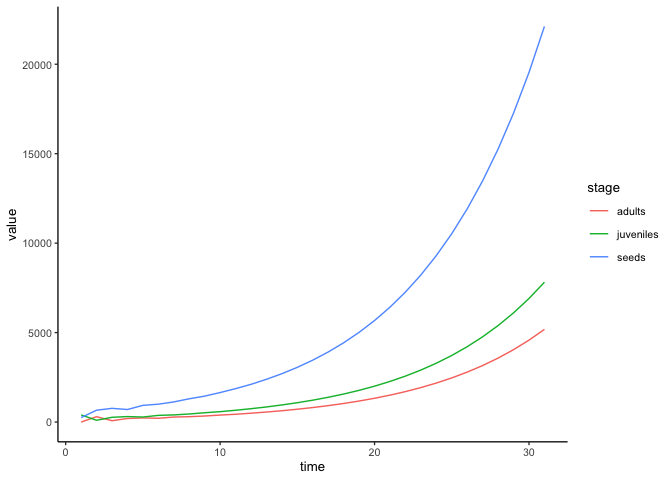
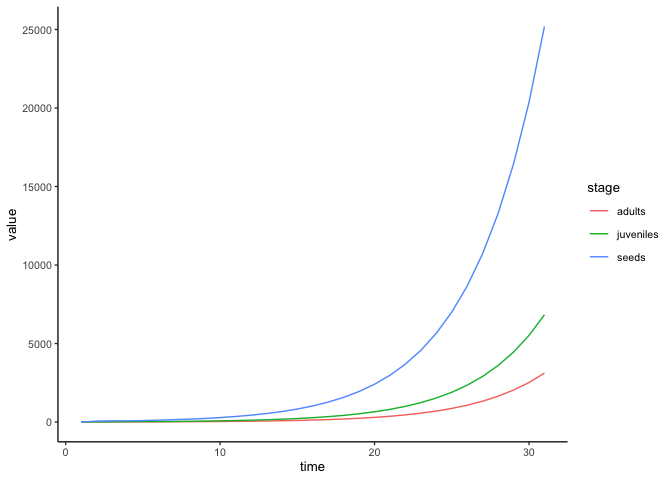
better matrix!

diff --git a/code/notebooks/2024-09-09_constructing-a-model.md b/code/notebooks/2024-09-09_constructing-a-model.md
@@ -90,9 +90,9 @@ step - useful for plant and animals with stage-dependent demography.
 ``` r
 t_mat <- matrix(     
   c(
-    0.25, 1.5, 1.5,
-    0.4, 0, 0,
-    0, 0.75, 0
+    0, 0, 10,
+    0.2, 0.5, 0,
+    0, 0.2, 0.8
   ),
   nrow = 3, ncol = 3, byrow = T,
   dimnames = (list(c("seed", "juvenile", "adult"),
@@ -103,19 +103,25 @@ t_mat
 ```
 
              [,1] [,2] [,3]
-    seed     0.25 1.50  1.5
-    juvenile 0.40 0.00  0.0
-    adult    0.00 0.75  0.0
+    seed      0.0  0.0 10.0
+    juvenile  0.2  0.5  0.0
+    adult     0.0  0.2  0.8
 
-Starting with 1,000 seeds
+|  | seed | juvenile | adult |
+|:---|:---|:---|:---|
+| **seed** | seed remaining seed | from juvenile to seed | from adult to seed |
+| **juvenile** | from seed to juvenile | juvenile remaining juvenile | from adult to juvenile |
+| **adult** | from seed to adult | from juvenile to adult | adult remaining adult |
+
+Starting with 30 juvenile plants
 
 ``` r
-abund_init <- c(1000, 0, 0)
+abund_init <- c(0, 30, 0)
 
 abund_init
 ```
 
-    [1] 1000    0    0
+    [1]  0 30  0
 
 ``` r
 yr_1 <- t_mat %*% abund_init 
@@ -124,9 +130,9 @@ yr_1
 ```
 
              [,1]
-    seed      250
-    juvenile  400
-    adult       0
+    seed        0
+    juvenile   15
+    adult       6
 
 ``` r
 n_years <- 30
@@ -144,26 +150,26 @@ for(t in 2:(n_years + 1)){
 all_years
 ```
 
-         [,1]  [,2]    [,3]     [,4]     [,5]     [,6]      [,7]      [,8]
-    [1,]  250 662.5 765.625 701.4062 932.8516 998.5879 1124.9907 1300.1836
-    [2,]  400 100.0 265.000 306.2500 280.5625 373.1406  399.4352  449.9963
-    [3,]    0 300.0  75.000 198.7500 229.6875 210.4219  279.8555  299.5764
-              [,9]     [,10]     [,11]     [,12]     [,13]     [,14]     [,15]
-    [1,] 1449.4049 1648.7072 1866.9024 2108.1821 2389.1052 2702.2916 3057.7180
-    [2,]  520.0734  579.7620  659.4829  746.7609  843.2728  955.6421 1080.9167
-    [3,]  337.4972  390.0551  434.8215  494.6122  560.0707  632.4546  716.7316
-             [,16]     [,17]    [,18]    [,19]    [,20]    [,21]    [,22]    [,23]
-    [1,] 3460.9018 3915.8875 4431.486 5014.810 5674.743 6421.740 7266.946 8223.415
-    [2,] 1223.0872 1384.3607 1566.355 1772.594 2005.924 2269.897 2568.696 2906.778
-    [3,]  810.6875  917.3154 1038.271 1174.766 1329.446 1504.443 1702.423 1926.522
-            [,24]     [,25]     [,26]     [,27]     [,28]     [,29]     [,30]
-    [1,] 9305.804 10530.626 11916.676 13485.156 15260.076 17268.617 19541.520
-    [2,] 3289.366  3722.322  4212.250  4766.670  5394.063  6104.031  6907.447
-    [3,] 2180.084  2467.025  2791.741  3159.188  3575.003  4045.547  4578.023
+         [,1] [,2]  [,3]   [,4]    [,5]      [,6]      [,7]      [,8]      [,9]
+    [1,]    0 60.0 78.00 77.400 93.4200 121.68600 151.78380 186.01254 229.77718
+    [2,]   15  7.5 15.75 23.475 27.2175  32.29275  40.48358  50.59855  62.50178
+    [3,]    6  7.8  7.74  9.342 12.1686  15.17838  18.60125  22.97772  28.50188
+             [,10]     [,11]     [,12]     [,13]     [,14]    [,15]     [,16]
+    [1,] 285.01884 353.01864 436.82756 540.67591 669.35512 828.6223 1025.7373
+    [2,]  77.20633  95.60693 118.40719 146.56911 181.41974 224.5809  278.0149
+    [3,]  35.30186  43.68276  54.06759  66.93551  82.86223 102.5737  126.9752
+             [,17]     [,18]     [,19]     [,20]     [,21]     [,22]     [,23]
+    [1,] 1269.7516 1571.8311 1945.7747 2408.6754 2981.7005 3691.0505 4569.1555
+    [2,]  344.1549  426.0278  527.3801  652.8450  808.1576 1000.4189 1238.4195
+    [3,]  157.1831  194.5775  240.8675  298.1701  369.1050  456.9156  565.6162
+             [,24]     [,25]    [,26]     [,27]     [,28]     [,29]     [,30]
+    [1,] 5656.1622 7001.7688 8667.497 10729.503 13282.063 16441.879 20353.419
+    [2,] 1533.0409 1897.7529 2349.230  2908.114  3599.958  4456.392  5516.572
+    [3,]  700.1769  866.7497 1072.950  1328.206  1644.188  2035.342  2519.552
              [,31]
-    [1,] 22113.585
-    [2,]  7816.608
-    [3,]  5180.585
+    [1,] 25195.518
+    [2,]  6828.970
+    [3,]  3118.956
 
 ``` r
 all_years %>% 
